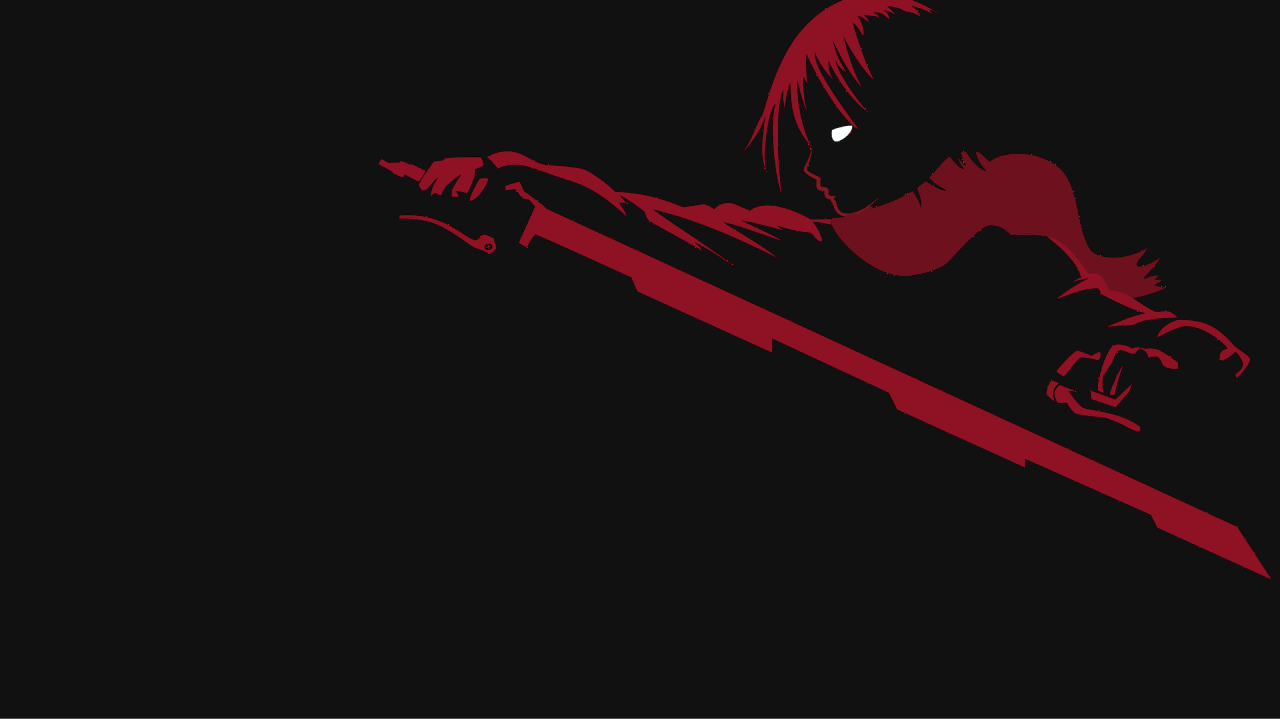
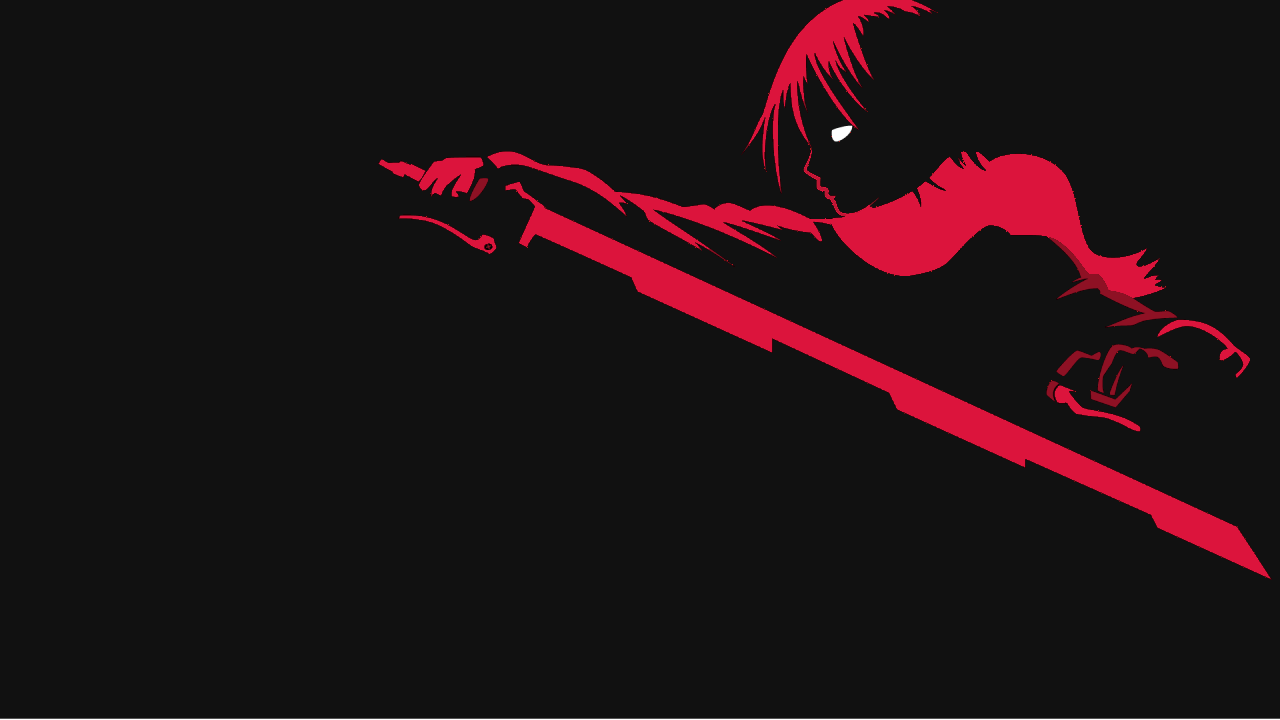
final impression

diff --git a/index.html b/index.html
@@ -3,7 +3,12 @@
 <head>
     <meta charset="UTF-8">
     <meta name="viewport" content="width=device-width, initial-scale=1.0">
-    <title>Personal Portfolio Website</title>
+    <title>MicroHawk - THE DEV</title>
+    <link rel="shortcut icon" type="image/png" href="./assests/images/favicon.png"/>
+    <meta name="theme-color" content="#dc143c">
+
+
+
     <link rel="stylesheet" href="./assests/css/style.css">
     <link rel="stylesheet" href="https://cdnjs.cloudflare.com/ajax/libs/font-awesome/5.15.2/css/all.min.css"/>
     <script src="https://code.jquery.com/jquery-3.5.1.min.js"></script>
